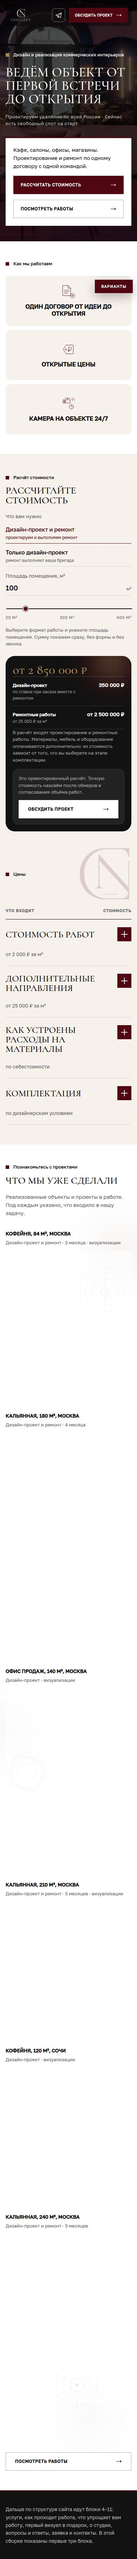
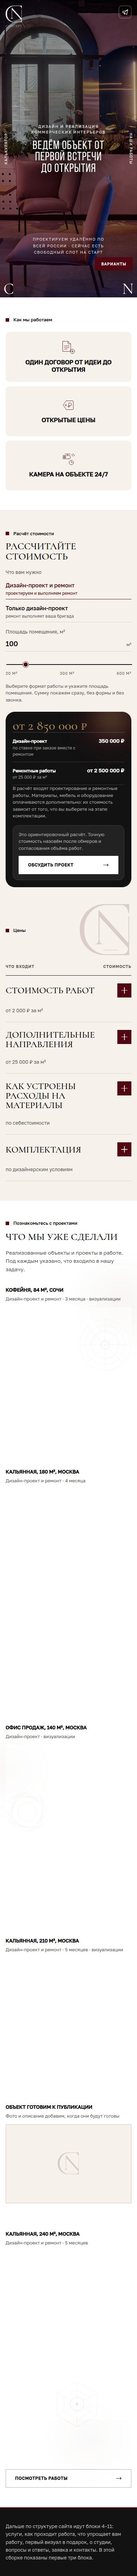
Вариант с угловым меню стал основным, правки по ценам и объектам
- Клиент выбрал бывший третий вариант первого экрана основным: он идёт
  первым, полноэкранный сдвинулся на второй, раскадровка на третий.
  Режимы страницы теперь привязаны к самому варианту, а не к его номеру,
  чтобы порядок можно было менять дальше. Ключ выбора в браузере
  обновлён — иначе старый выбор указывал бы на другой вариант.
- Ставка дизайн-проекта без ремонта «до 100 м²»: 7 000 → 5 000 ₽ за м².
  Поправлено и в таблице цен, и в калькуляторе.
- Первый объект теперь Сочи, а не Москва.
- «Кофейня, 120 м², Сочи» заменена заглушкой до получения фото и текста.
- Кадр из другой кальянной убран у объекта на 180 м² и отдан объекту
  на 210 м², которому он и принадлежит.
- Удалены четыре тестовых скриншота, попавшие в репозиторий по ошибке.

Claude-Session: https://claude.ai/code/session_012qg78my7HbumokZeYQ7QZc

diff --git a/index.html b/index.html
@@ -49,7 +49,25 @@
      ============================================================ -->
 <div class="variants" data-block="hero" data-label="Первый экран">
 
-<section class="hero on-dark" data-variant="1">
+<section class="herofull on-dark" data-variant="1">
+
+  <div class="herofull__media">
+    <img src="assets/photo/hero-1.jpg" alt="Интерьер кафе: мягкие диваны, арочное окно, живые растения и тёплый свет" width="2000" height="1250">
+    <img src="assets/photo/hero-2.jpg" alt="" loading="lazy" width="2000" height="1250">
+    <img src="assets/photo/hero-3.jpg" alt="" loading="lazy" width="2000" height="1250">
+  </div>
+
+  <div class="herofull__center">
+    <p class="herofull__over">Дизайн и реализация коммерческих интерьеров</p>
+    <h1 class="herofull__title">Ведём объект от первой встречи до открытия</h1>
+  </div>
+
+  <p class="herofull__note">Проектируем удалённо по всей России&nbsp;· Сейчас есть свободный слот на старт</p>
+
+</section>
+
+<!-- Вариант 2: кадры и текст сменяются при прокрутке -->
+<section class="hero on-dark" data-variant="2">
   <!-- Кадры сменяют друг друга по кругу -->
   <div class="hero__media">
     <img src="assets/photo/hero-1.jpg" alt="Интерьер кафе: мягкие диваны, арочное окно, живые растения и тёплый свет" fetchpriority="high" width="2000" height="1250">
@@ -73,8 +91,8 @@
   </div>
 </section>
 
-<!-- Вариант 2: кадры и текст сменяются при прокрутке -->
-<section class="heroseq on-dark" data-variant="2" data-step="1">
+<!-- Вариант 3: полноэкранный кадр, подписи разведены по углам -->
+<section class="heroseq on-dark" data-variant="3" data-step="1">
   <div class="heroseq__track">
     <div class="heroseq__stage">
 
@@ -121,24 +139,6 @@
 
     </div>
   </div>
-</section>
-
-<!-- Вариант 3: полноэкранный кадр, подписи разведены по углам -->
-<section class="herofull on-dark" data-variant="3">
-
-  <div class="herofull__media">
-    <img src="assets/photo/hero-1.jpg" alt="Интерьер кафе: мягкие диваны, арочное окно, живые растения и тёплый свет" width="2000" height="1250">
-    <img src="assets/photo/hero-2.jpg" alt="" loading="lazy" width="2000" height="1250">
-    <img src="assets/photo/hero-3.jpg" alt="" loading="lazy" width="2000" height="1250">
-  </div>
-
-  <div class="herofull__center">
-    <p class="herofull__over">Дизайн и реализация коммерческих интерьеров</p>
-    <h1 class="herofull__title">Ведём объект от первой встречи до открытия</h1>
-  </div>
-
-  <p class="herofull__note">Проектируем удалённо по всей России&nbsp;· Сейчас есть свободный слот на старт</p>
-
 </section>
 
 </div>
@@ -318,7 +318,7 @@
           </summary>
           <div class="price__body">
             <ul class="plist">
-              <li><b>до 100 м²</b><span>3 500 ₽ за м² с ремонтом&nbsp;· 7 000 ₽ за м² без ремонта</span></li>
+              <li><b>до 100 м²</b><span>3 500 ₽ за м² с ремонтом&nbsp;· 5 000 ₽ за м² без ремонта</span></li>
               <li><b>от 100 до 200 м²</b><span>2 500 ₽ за м² с ремонтом&nbsp;· 5 000 ₽ за м² без ремонта</span></li>
               <li><b>от 200 до 500 м²</b><span>2 000 ₽ за м² с ремонтом&nbsp;· 4 000 ₽ за м² без ремонта</span></li>
               <li><b>от 500 м²</b><span>Обсуждается</span></li>
@@ -458,7 +458,7 @@
     <div class="works__grid">
 
       <article class="work work--wide work--r w1" tabindex="0">
-        <h3 class="work__title">Кофейня, 84 м², Москва</h3>
+        <h3 class="work__title">Кофейня, 84 м², Сочи</h3>
         <p class="work__meta">Дизайн-проект и ремонт · 3 месяца · визуализации</p>
         <div class="work__media">
           <img src="assets/photo/works/krym-cafe/wide.jpg" alt="Кофейня: зал с деревом, плетёными креслами и панорамным остеклением" loading="lazy" width="1600" height="1067">
@@ -494,9 +494,6 @@
           </button>
           <button class="work__card" type="button" data-full="assets/photo/works/hookah-bar/04.jpg" aria-label="Открыть фото объекта">
             <img src="assets/photo/works/hookah-bar/04.jpg" alt="" loading="lazy">
-          </button>
-          <button class="work__card" type="button" data-full="assets/photo/works/hookah-bar/wide.jpg" aria-label="Открыть фото объекта">
-            <img src="assets/photo/works/hookah-bar/wide.jpg" alt="" loading="lazy">
           </button>
         </div>
       </article>
@@ -539,31 +536,19 @@
           <button class="work__card" type="button" data-full="assets/photo/works/mid-lounge/03.jpg" aria-label="Открыть фото объекта">
             <img src="assets/photo/works/mid-lounge/03.jpg" alt="" loading="lazy">
           </button>
-          <button class="work__card" type="button" data-full="assets/photo/works/mid-lounge/04.jpg" aria-label="Открыть фото объекта">
-            <img src="assets/photo/works/mid-lounge/04.jpg" alt="" loading="lazy">
+          <button class="work__card" type="button" data-full="assets/photo/works/mid-lounge/05.jpg" aria-label="Открыть фото объекта">
+            <img src="assets/photo/works/mid-lounge/05.jpg" alt="" loading="lazy">
           </button>
         </div>
       </article>
 
-      <article class="work work--flat work--r w5" tabindex="0">
-        <h3 class="work__title">Кофейня, 120 м², Сочи</h3>
-        <p class="work__meta">Дизайн-проект · визуализации</p>
+      <!-- ЗАГЛУШКА: объект заменим, когда клиент пришлёт фото и текст.
+           Подписи здесь временные, в документе «Тексты CONCEPT» их нет. -->
+      <article class="work work--flat work--r work--stub w5">
+        <h3 class="work__title">Объект готовим к публикации</h3>
+        <p class="work__meta">Фото и описание добавим, когда они будут готовы</p>
         <div class="work__media">
-          <img src="assets/photo/works/krym-cafe/03.jpg" alt="Кофейня: барная стойка и витрина с десертами" loading="lazy" width="1600" height="1000">
-        </div>
-        <div class="work__cards">
-          <button class="work__card" type="button" data-full="assets/photo/works/krym-cafe/01.jpg" aria-label="Открыть фото объекта">
-            <img src="assets/photo/works/krym-cafe/01.jpg" alt="" loading="lazy">
-          </button>
-          <button class="work__card" type="button" data-full="assets/photo/works/krym-cafe/02.jpg" aria-label="Открыть фото объекта">
-            <img src="assets/photo/works/krym-cafe/02.jpg" alt="" loading="lazy">
-          </button>
-          <button class="work__card" type="button" data-full="assets/photo/works/krym-cafe/04.jpg" aria-label="Открыть фото объекта">
-            <img src="assets/photo/works/krym-cafe/04.jpg" alt="" loading="lazy">
-          </button>
-          <button class="work__card" type="button" data-full="assets/photo/works/krym-cafe/wide.jpg" aria-label="Открыть фото объекта">
-            <img src="assets/photo/works/krym-cafe/wide.jpg" alt="" loading="lazy">
-          </button>
+          <img class="work__stub-mark" src="assets/logo/concept-mark.svg" alt="" width="165" height="170" loading="lazy">
         </div>
       </article>
 

diff --git a/assets/js/ui.js b/assets/js/ui.js
@@ -29,7 +29,7 @@
      Варианты блоков: рядом в разметке лежит несколько версий одного
      блока, показываем выбранную. Выбор запоминается в браузере.
      ------------------------------------------------------------------ */
-  var STORE = 'concept-variants';
+  var STORE = 'concept-variants-2';
   var groups = [].slice.call(document.querySelectorAll('.variants'));
   var chosen = {};
 
@@ -43,11 +43,15 @@
     group.setAttribute('data-ready', '');
     chosen[group.dataset.block] = index;
     if (group.dataset.block === 'hero') {
-      document.body.classList.toggle('hdr-shrink-mode', index === 1);
-      document.body.classList.toggle('hero-corner-mode', index === 2);
+      /* Смотрим на сам вариант, а не на его номер: порядок вариантов
+         меняется по просьбе клиента, номера вместе с ним. */
+      var active = options[index];
+      var corners = !!active && active.classList.contains('herofull');
+      document.body.classList.toggle('hdr-shrink-mode', !!active && active.classList.contains('heroseq'));
+      document.body.classList.toggle('hero-corner-mode', corners);
       var chrome = document.querySelector('.corner');
       if (chrome) {
-        if (index === 2) chrome.removeAttribute('hidden');
+        if (corners) chrome.removeAttribute('hidden');
         else chrome.setAttribute('hidden', '');
       }
     }

diff --git a/assets/css/krasnov.css b/assets/css/krasnov.css
@@ -555,6 +555,18 @@ ul{ padding:0; list-style:none }
 .work--flat   .work__media{ aspect-ratio:16/10 }
 .work--square .work__media{ aspect-ratio:1/1 }
 
+/* Место под объект, которого ещё нет: фото и текст пришлёт клиент */
+.work--stub .work__media{
+  display:grid; place-items:center;
+  background:var(--sand);
+  box-shadow:inset 0 0 0 1px rgba(80,7,17,.22);
+}
+.work--stub .work__media img,
+.work--stub:hover .work__media img{
+  width:clamp(64px,7vw,96px); height:auto; object-fit:contain;
+  opacity:.16; transform:none; transition:none;
+}
+
 /* Фотокарточки объекта: выезжают поверх нижнего края фото и вбок,
    в свободное место сетки. Клик открывает полный кадр. */
 .work__cards{
@@ -729,7 +741,7 @@ ul{ padding:0; list-style:none }
 
 .variants > [data-variant]{ display:none }
 /* Пока скрипт не отработал, показываем первый вариант */
-.variants:not([data-ready]) > [data-variant="1"]{ display:flex }
+.variants:not([data-ready]) > [data-variant="1"]{ display:block }
 .variants > [data-variant].is-active{ display:flex }
 .variants > .herofull[data-variant].is-active{ display:block }
 .variants > .heroseq[data-variant].is-active{ display:block }

diff --git a/assets/js/calc.js b/assets/js/calc.js
@@ -13,8 +13,10 @@
   var RATES = {
     // Дизайн-проект, если ремонт выполняем мы
     full:   [{ upto: 100, rate: 3500 }, { upto: 200, rate: 2500 }, { upto: 500, rate: 2000 }],
-    // Дизайн-проект без ремонта
-    design: [{ upto: 100, rate: 7000 }, { upto: 200, rate: 5000 }, { upto: 500, rate: 4000 }]
+    // Дизайн-проект без ремонта.
+    // Ставка «до 100 м²» снижена с 7 000 до 5 000 ₽ по правке клиента —
+    // в документе «Тексты CONCEPT» пока стоит прежнее значение.
+    design: [{ upto: 100, rate: 5000 }, { upto: 200, rate: 5000 }, { upto: 500, rate: 4000 }]
   };
   var REPAIR_RATE = 25000;   // ремонтные работы, ₽ за м²
   var MAX_TABLE_AREA = 500;  // свыше — «Обсуждается»
